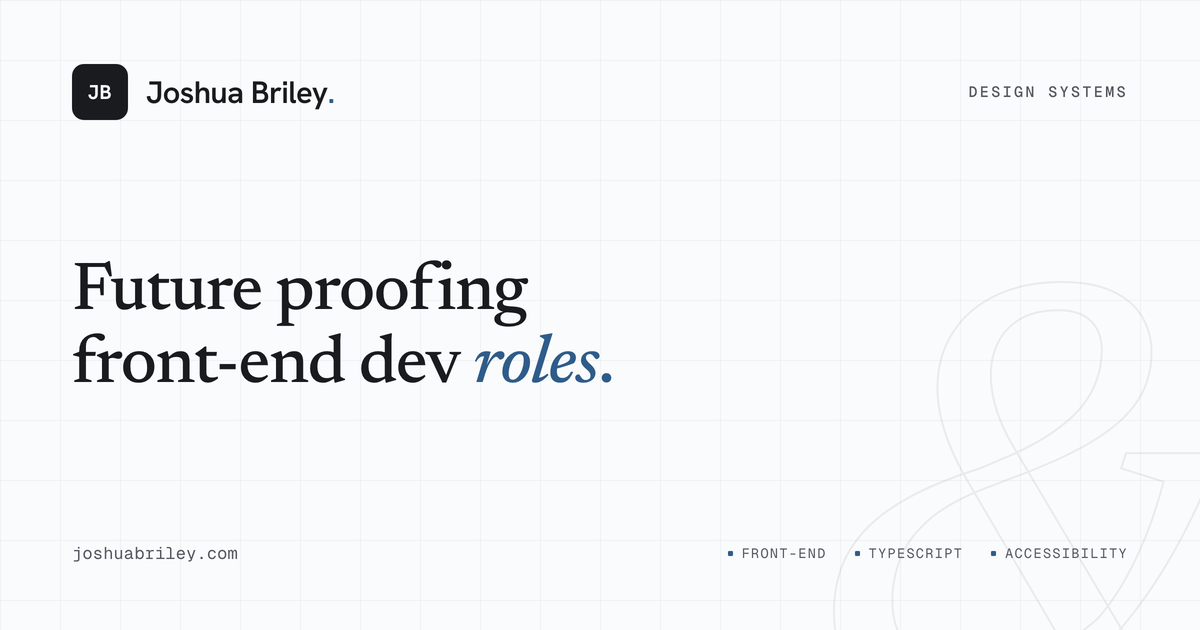
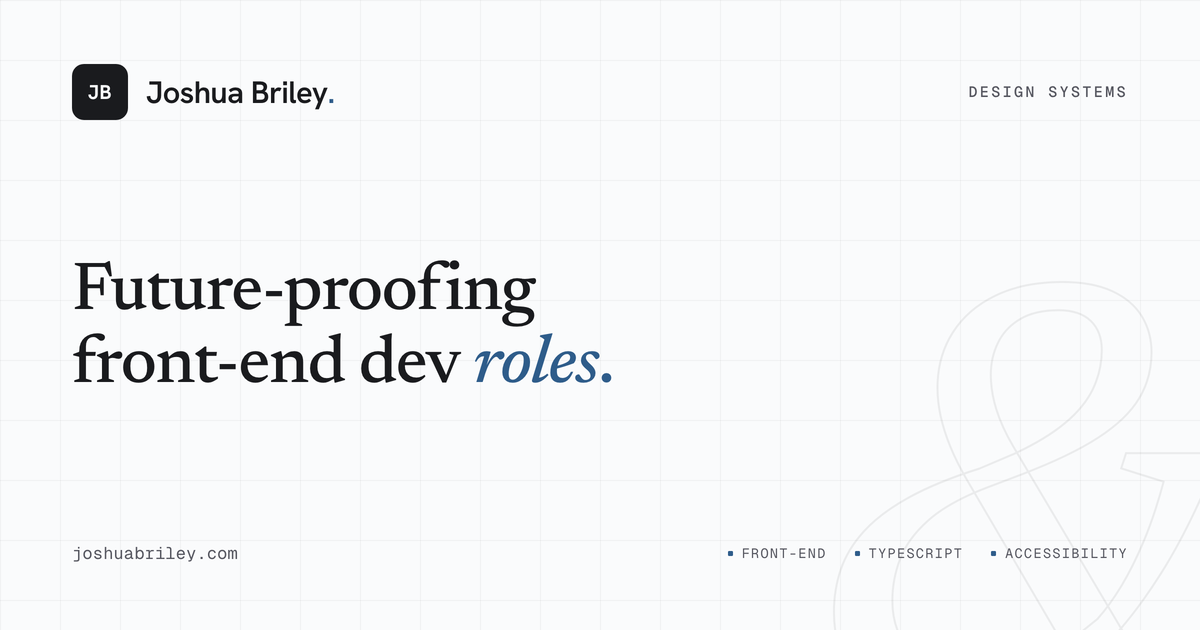
Updating content.

Changed region(s): [[0.2158, 0.3921, 0.4625, 0.5127]]

diff --git a/README.md b/README.md
@@ -1,13 +1,13 @@
 # joshuabriley.com
 
-The personal site and portfolio of **Joshua Briley**, a Product Engineer who builds full-stack products and design systems. Static-generated with [Astro](https://astro.build), deployed to Netlify, and built around a hand-tuned "Editorial-Technical" design system.
+The personal site and portfolio of **Joshua Briley**, a Product Design Engineer who builds full-stack products and design systems. Static-generated with [Astro](https://astro.build), deployed to Netlify, and built around a hand-tuned "Editorial-Technical" design system.
 
 ## Highlights
 
 - **Editorial-Technical design system** — one warm grotesk (Hanken), a display serif for character (Newsreader), and a mono for technical moments (Geist Mono). Monochrome neutrals with a single surface-aware accent that shifts between light and ink surfaces.
-- **Case studies & projects** — client work (America's Test Kitchen, Berxi, IVFcryo, VMSpark) and personal projects (Clempo, Bass Face, Rudiment UI, and more).
-- **Content collections** — blog posts (`.mdx`) and testimonials (`.json`) are type-checked via Zod schemas in `src/content/config.ts`.
-- **Interactive posts** — several essays embed live tools (ROI calculator, design-system scorecard, token playground) as client islands.
+- **Case studies & projects** — client work (IVFCRYO, VMSpark, Logatot) and personal projects (Rudiment UI, Token Adventure, West Baton Rouge Presbyterian).
+- **Content collections** — blog posts (`.mdx`), tools (`.mdx`), and testimonials (`.json`) are type-checked via Zod schemas in `src/content.config.ts`.
+- **Interactive tools** — four live islands (scorecard, ROI calculator, token playground, audit inspector) render above their essays under `/tools/`.
 - **Accessibility-first** — WCAG AA contrast is enforced by live audit scripts and Playwright + axe-core e2e coverage.
 - **Auto-generated OG cards** — per-page social images are rendered from a manifest and regenerated by a git pre-commit hook when their inputs change.
 
@@ -17,7 +17,7 @@ The personal site and portfolio of **Joshua Briley**, a Product Engineer who bui
 | -------------- | ----------------------------------------- |
 | Framework      | Astro 5 (`output: 'static'`)              |
 | Styling        | Tailwind CSS 3 + custom CSS tokens        |
-| Content        | MDX posts + JSON testimonials collections |
+| Content        | MDX posts, MDX tools, JSON testimonials collections |
 | Fonts          | Astro font provider (Google) — Hanken Grotesk, Newsreader, Geist Mono |
 | Hosting        | Netlify (`@astrojs/netlify` adapter)      |
 | Unit tests     | Vitest                                    |
@@ -60,11 +60,12 @@ src/
 │                     #   ScorecardEngine, TokenPlayground, ...
 ├── content/
 │   ├── posts/        # Blog posts (.mdx)
-│   ├── testimonials/ # Testimonials (.json)
-│   └── config.ts     # Zod schemas for both collections
-├── layouts/          # BaseLayout, BlogPost
+│   ├── tools/        # Tool essays (.mdx), one per island
+│   └── testimonials/ # Testimonials (.json)
+├── content.config.ts # Zod schemas for all three collections
+├── layouts/          # BaseLayout, BlogPost, ToolPage
 ├── lib/              # Pure helpers (cx, nav, tones, roi, scorecard)
-├── pages/            # File-based routes (projects, blog, personal-projects, ...)
+├── pages/            # File-based routes (projects, blog, tools, personal-projects, ...)
 ├── scripts/          # Client-side TS entry points
 └── styles/           # global.css, site.css (design tokens)
 
@@ -74,7 +75,8 @@ tests/                # Vitest (unit) + Playwright (e2e/a11y)
 
 ## Content
 
-- **Add a blog post** — drop an `.mdx` file in `src/content/posts/`. Frontmatter must satisfy the `posts` schema in `src/content/config.ts` (title, description, date, category, readMinutes, icon, gradient, sticker; `draft: true` hides it from listings).
+- **Add a blog post** — drop an `.mdx` file in `src/content/posts/`. Frontmatter must satisfy the `posts` schema in `src/content.config.ts` (title, description, date, category, readMinutes, icon, gradient, sticker; `draft: true` hides it from listings).
+- **Add a tool** — drop an `.mdx` file in `src/content/tools/` matching the `tools` schema. Its `tool` field must name a key of `ISLANDS` in `src/layouts/ToolPage.astro`.
 - **Add a testimonial** — add a numbered `.json` file in `src/content/testimonials/` matching the `testimonials` schema.
 
 ## Routing & redirects

diff --git a/tasks/todo.md b/tasks/todo.md
@@ -1,3 +1,35 @@
+# Site-wide content audit (2026-07-27)
+
+Full-project scan for factual inconsistencies and LLM writing patterns.
+
+## Applied
+- [x] Drop NASCAR + NFL from the homepage "Shipped at" strip (unsourced anywhere in repo)
+- [x] Align the homepage project `kind` labels to the vocabulary `projects.astro:14` declares
+- [x] Rewrite the homepage Logatot line (gerund cargo phrasing, repeated the client name)
+- [x] Reframe `audit-findings.mdx` from a sold service to the method behind the work
+- [x] Correct six stale facts in README (title, case studies, personal projects, `content.config.ts` path, tools collection, tools location)
+- [x] Remove the duplicate H1 in `web-component-libraries-in-the-ai-era.mdx` and the duplicate H2 in `future-proofing-front-end-dev-roles.mdx`
+- [x] Blog titles to sentence case; hyphenate "Future-proofing"; terminal periods on descriptions
+- [x] `readMinutes: 19` → `8` on the 1,345-word adoption spec
+- [x] De-LLM the two research posts (triads, not-X-but-Y, "most profound shift", holistic/seamless/robust)
+- [x] Drop needless acronym expansions (DOM, JSON, CLI) for a front-end audience
+- [x] "Astro.js" → "Astro"; LinkedIn URL trailing slash; Privacy/Terms title case
+- [x] Replace five "Click below" instructions in `ScorecardEngine.astro`
+
+## Open (needs Josh)
+- [ ] Em dash policy (49 in shipped prose: 40 in `src/pages`, 2 in `src/content`, 7 in README) — not decided, left untouched
+- [ ] British vs American spelling (`colour` ×34, `modelled`, `behaviour`, `centre`) — not decided, left untouched
+- [ ] Testimonial names: `12-adam-czerepinsky.json` displays "Czerepinkski"; `14-michael-peritore.json` displays "Pertiore". Filename + image path disagree with the `name` field in both
+- [ ] `astro.config.mjs:26-27` redirects `/projects/clempo` and `/projects/bass-face` to pages that don't exist
+- [ ] Homepage `3 → 1 brands` metric is real but its only source is the unpublished `notes/americas-test-kitchen.astro`
+- [ ] ROI table rows in `roi-calculator.mdx` don't reproduce from one set of stated inputs
+- [ ] "Design System Scorecard" in `the-hidden-cost-of-component-inconsistency.mdx` describes a different tool than `/tools/scorecard/`
+- [ ] `IVFCRYO` (22×) vs `IVFCryo` (8×); `Logatot` vs `LogATot, Inc.` in `resume.astro:34`
+- [ ] "20 years" site-wide vs "20+ years" twice in `resume.astro`
+- [ ] Changing `resume.astro` desyncs `public/resume.pdf` (source: `notes/resume.md`)
+
+---
+
 # VMSpark design artifacts → shared standard
 
 ## Plan
